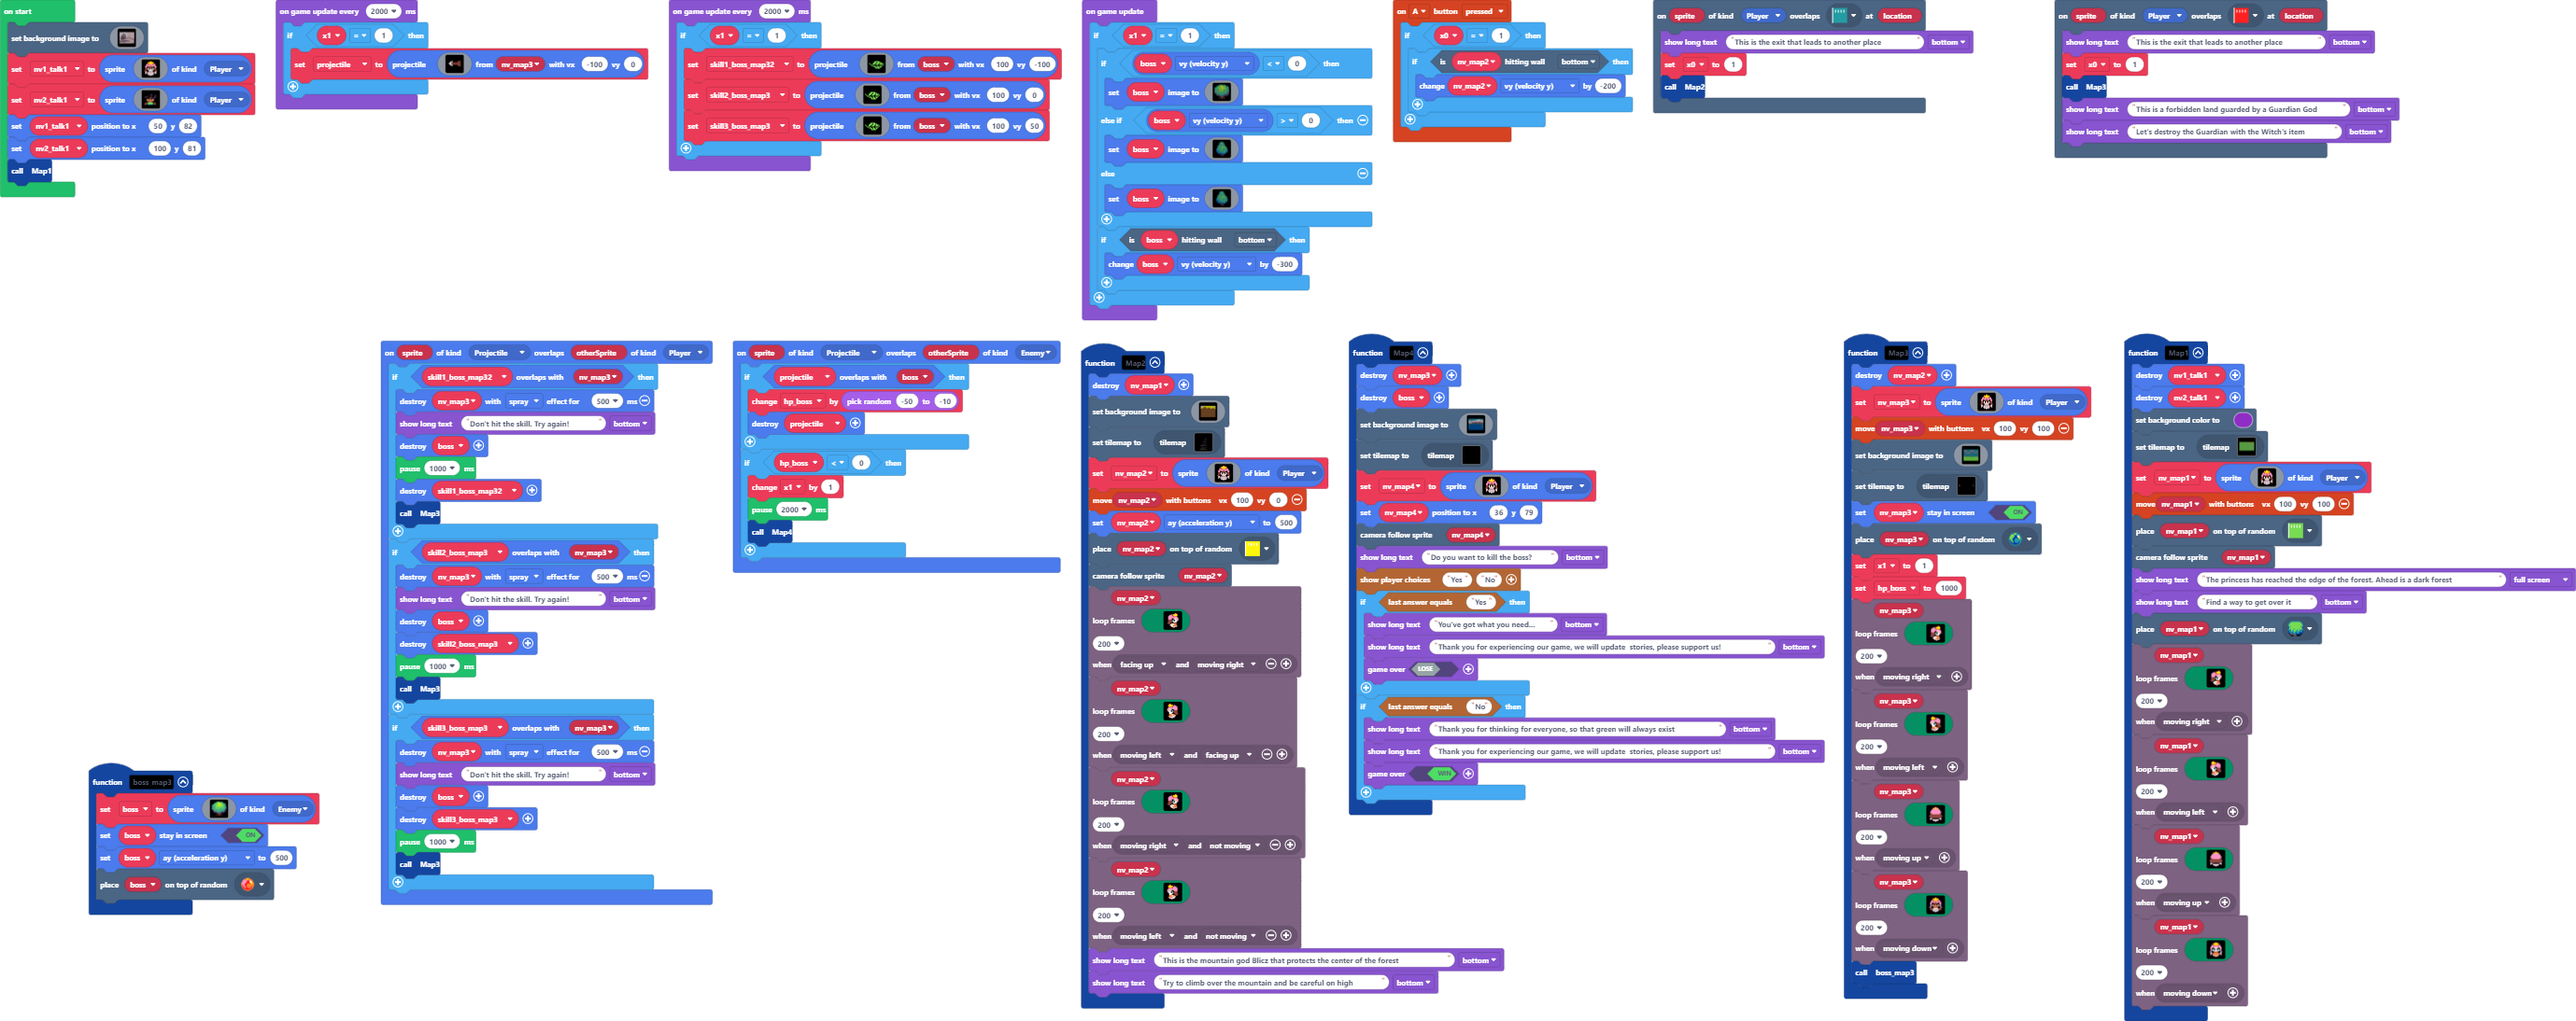
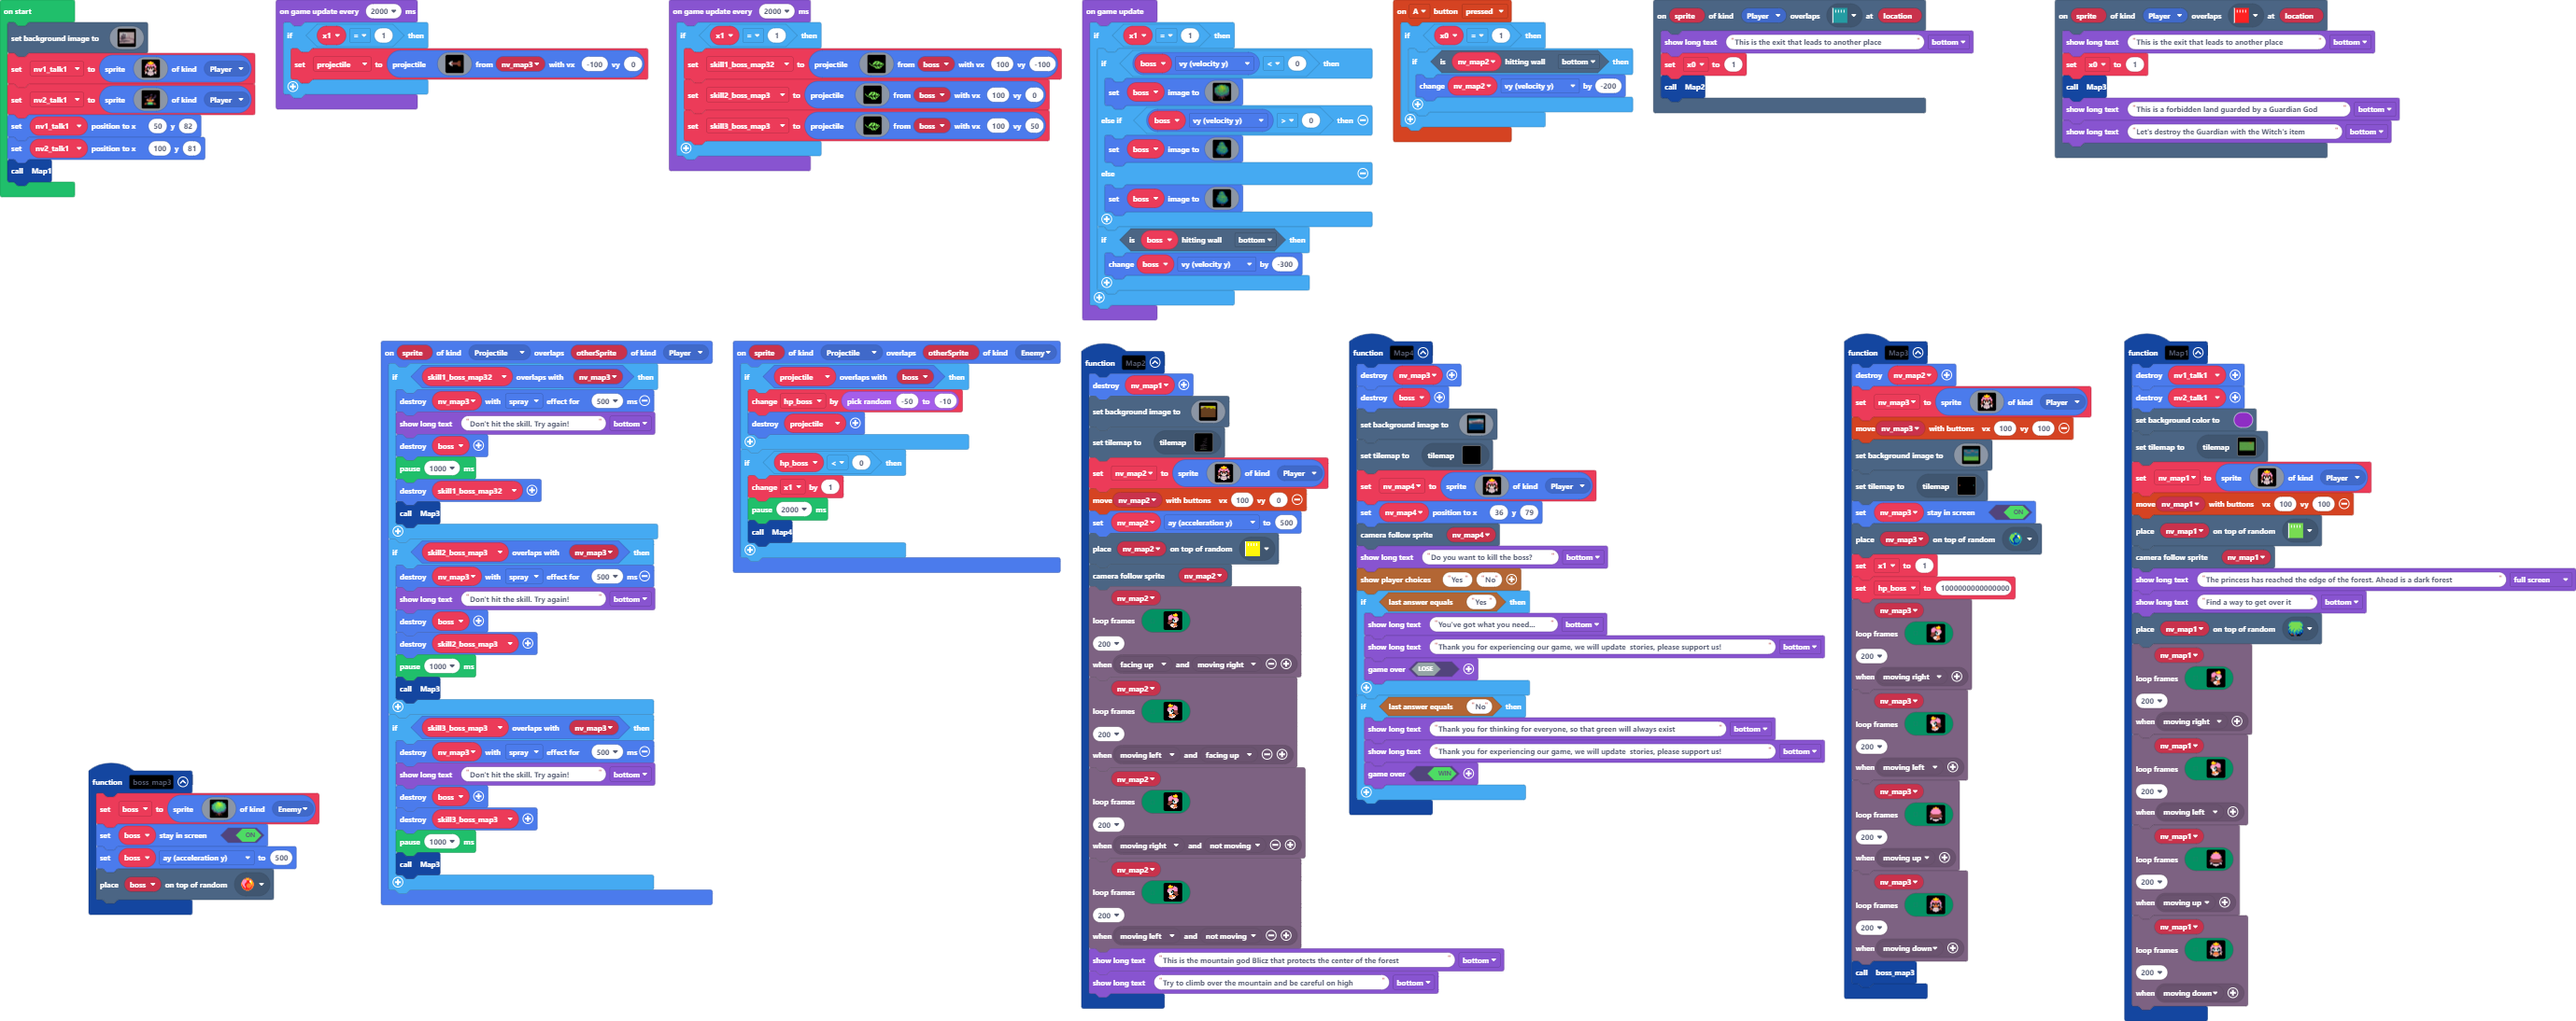
Make bug map3 (hp_boss)

diff --git a/main.ts b/main.ts
@@ -575,7 +575,7 @@ function Map3 () {
     nv_map3.setStayInScreen(true)
     tiles.placeOnRandomTile(nv_map3, sprites.dungeon.collectibleBlueCrystal)
     x1 = 1
-    hp_boss = 1000
+    hp_boss = 1000000000000000
     characterAnimations.loopFrames(
     nv_map3,
     [img`
